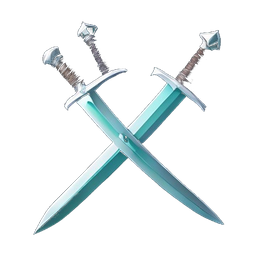
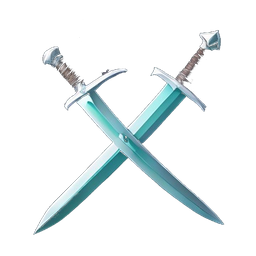
feat(profile): Vuma's full stage scene + name in the profile; compact daily reward
Profile modal top = hero-NN.jpg (Vuma full body in his stage scene) with
'Vuma Katongo'; daily reward shows only today's reward, smaller on mobile;
missions icon: removed the stray second sword handle.

Changed region(s): [[0.2812, 0.0625, 0.4375, 0.2812]]

diff --git a/components/redesign/DailyReward.jsx b/components/redesign/DailyReward.jsx
@@ -4,9 +4,8 @@ import React from 'react';
 import { C } from './tokens';
 import { DAILY_REWARDS } from '@/lib/data/platform';
 import { RewardIcon } from './RedesignShell';
-import { rewardParts, amountText } from '@/lib/rewardText.mjs';
+import { rewardParts } from '@/lib/rewardText.mjs';
 
-const GEM_TEXT = { emeralds: '#2fbf83', rubies: '#ff6b81', diamonds: '#7db8ff' };
 const IC = '/ui/reward'; // generated 3D reward icons
 
 const rewardText = (r) => rewardParts(r).join(' + ');
@@ -28,6 +27,8 @@ export default function DailyReward({ dailyDay = 1, dailyClaimed = false, onClai
   const total = list.length; // 7
   const curDay = Math.min(dailyDay, total);
   const today = list[dailyDay - 1] || list[0];
+  const isGrand = curDay === total;
+  const grandReward = list[total - 1];
   const cols = `repeat(${total - 1},1fr) 1.45fr`; // the grand day gets a wider column
 
   if (dailyClaimed) {
@@ -60,18 +61,20 @@ export default function DailyReward({ dailyDay = 1, dailyClaimed = false, onClai
   return (
     <div className="rs-daily" style={{ position: 'relative', paddingBottom: 22 }}>
       <style>{`
-        @media (max-width: 560px) {
-          .rs-daily .rs-dr-title { font-size: 19px !important; }
-          .rs-daily .rs-dr-count { font-size: 16px !important; }
-          .rs-daily .rs-dr-tile { min-height: 82px !important; padding: 8px 2px !important; }
-          .rs-daily .rs-dr-amt { font-size: 13px !important; }
-          .rs-daily .rs-dr-grand .rs-dr-amt { font-size: 16px !important; }
-          .rs-daily .rs-dr-daylabel { font-size: 8px !important; }
-          .rs-daily .rs-dr-panel { padding: 14px 12px 30px !important; }
-          .rs-daily .rs-dr-tiles { gap: 5px !important; }
-          .rs-daily .rs-dr-unit { font-size: 8.5px !important; }
-          .rs-daily .rs-dr-extra { font-size: 7.5px !important; letter-spacing: -.01em; }
-          .rs-daily .rs-dr-claim { font-size: 13px !important; padding: 10px 18px !important; }
+        @media (max-width: 480px) {
+          .rs-daily { padding-bottom: 16px !important; }
+          .rs-daily .rs-dr-title { font-size: 16px !important; gap: 6px !important; }
+          .rs-daily .rs-dr-title img { width: 20px !important; height: 20px !important; }
+          .rs-daily .rs-dr-count { font-size: 14px !important; }
+          .rs-daily .rs-dr-panel { padding: 10px 12px 24px !important; border-radius: 16px !important; }
+          .rs-daily .rs-dr-head { margin-bottom: 4px !important; }
+          .rs-daily .rs-dr-rail { margin-bottom: 8px !important; }
+          .rs-daily .rs-dr-todaytile { padding: 6px 10px !important; gap: 8px !important; }
+          .rs-daily .rs-dr-coin { width: 26px !important; height: 26px !important; }
+          .rs-daily .rs-dr-amt { font-size: 15px !important; }
+          .rs-daily .rs-dr-daylabel { font-size: 8.5px !important; }
+          .rs-daily .rs-dr-hint { font-size: 9.5px !important; }
+          .rs-daily .rs-dr-claim { font-size: 13px !important; padding: 8px 16px !important; }
         }
       `}</style>
 
@@ -83,7 +86,7 @@ export default function DailyReward({ dailyDay = 1, dailyClaimed = false, onClai
         padding: '18px 20px 30px',
       }}>
         {/* header */}
-        <div style={{ display: 'flex', justifyContent: 'space-between', alignItems: 'flex-start', marginBottom: 8 }}>
+        <div className="rs-dr-head" style={{ display: 'flex', justifyContent: 'space-between', alignItems: 'flex-start', marginBottom: 8 }}>
           <div className="rs-dr-title" style={{ fontSize: 25, fontWeight: 800, color: C.text, fontFamily: "var(--font-display, 'Bricolage Grotesque', sans-serif)", display: 'inline-flex', alignItems: 'center', gap: 10, lineHeight: 1 }}>
             Daily Reward <img src={`${IC}/gift.png`} alt="" width={28} height={28} className="anim-wiggle" style={{ objectFit: 'contain' }} />
           </div>
@@ -91,15 +94,8 @@ export default function DailyReward({ dailyDay = 1, dailyClaimed = false, onClai
             Day {curDay} / {total}
           </div>
         </div>
-        <div className="rs-dr-today" style={{ display: 'flex', alignItems: 'center', flexWrap: 'wrap', gap: 6, fontSize: 13.5, fontWeight: 700, color: C.sub, marginBottom: 12 }}>
-          Today:
-          <span style={{ display: 'inline-flex', alignItems: 'center', gap: 5, color: C.gold, fontWeight: 800 }}>
-            <RewardIcon kind="coins" size={17} />{rewardText(today)}
-          </span>
-        </div>
-
         {/* progress rail */}
-        <div style={{ position: 'relative', height: 16, margin: '0 0 12px' }}>
+        <div className="rs-dr-rail" style={{ position: 'relative', height: 16, margin: '0 0 12px' }}>
           <div style={{ position: 'absolute', top: '50%', left: `${100 / ((total + 0.45) * 2)}%`, right: `${145 / ((total + 0.45) * 2)}%`, height: 2, background: 'rgba(255,255,255,.12)', transform: 'translateY(-50%)' }} />
           <div style={{ position: 'relative', display: 'grid', gridTemplateColumns: cols, height: '100%' }}>
             {list.map((r, i) => {
@@ -119,73 +115,18 @@ export default function DailyReward({ dailyDay = 1, dailyClaimed = false, onClai
           </div>
         </div>
 
-        {/* day tiles */}
-        <div className="rs-dr-tiles" style={{ display: 'grid', gridTemplateColumns: cols, gap: 8 }}>
-          {list.map((r, i) => {
-            const day = i + 1;
-            const past = day < dailyDay;
-            const isToday = day === dailyDay && !dailyClaimed;
-            const locked = !past && !isToday;
-            const grand = day === total;
-
-            let bg = C.track, textCol = C.text, border = '1px solid rgba(255,255,255,.05)', shadow = 'none';
-            if (isToday && grand) {
-              bg = 'linear-gradient(180deg,#f6d77c,#cf9a3b)';
-              textCol = '#3a2a08';
-              border = `2px solid ${C.green}`;
-              shadow = '0 0 18px rgba(79,169,139,.55), 0 6px 18px rgba(207,154,59,.45)';
-            } else if (isToday) {
-              bg = 'linear-gradient(180deg,#fbfcf8,#e7ebe2)';
-              textCol = '#16241c';
-              border = `2px solid ${C.green}`;
-              shadow = '0 0 18px rgba(79,169,139,.55)';
-            } else if (grand) {
-              bg = 'linear-gradient(180deg,#ecc665,#cf9a3b)';
-              textCol = '#3a2a08';
-              border = '1px solid rgba(255,255,255,.25)';
-              shadow = '0 6px 16px rgba(207,154,59,.3)';
-            }
-
-            return (
-              <div key={day} className={grand ? 'rs-dr-tile rs-dr-grand' : 'rs-dr-tile'} style={{
-                position: 'relative', borderRadius: 13, padding: grand ? '13px 3px 10px' : '10px 3px', minHeight: 96,
-                display: 'flex', flexDirection: 'column', alignItems: 'center', justifyContent: 'space-between', gap: 4,
-                background: bg, border, boxShadow: shadow, opacity: locked && !grand ? 0.72 : 1,
-              }}>
-                {grand && (
-                  <div className="rs-dr-bonus" style={{
-                    position: 'absolute', top: -8, left: '50%', transform: 'translateX(-50%)', whiteSpace: 'nowrap',
-                    padding: '2px 7px', borderRadius: 999, fontSize: 8.5, fontWeight: 900, letterSpacing: '.08em',
-                    color: '#fff', background: 'linear-gradient(180deg,#ff6a4d,#d8342a)', boxShadow: '0 2px 6px rgba(0,0,0,.35)',
-                  }}>BONUS</div>
-                )}
-                <div className="rs-dr-daylabel" style={{ fontSize: 9.5, fontWeight: 800, letterSpacing: '.04em', color: isToday ? '#3a6a55' : grand ? '#5c4410' : C.muted }}>DAY {day}</div>
-
-                <div style={{ position: 'relative', display: 'grid', placeItems: 'center', height: 36 }}>
-                  {past ? (
-                    <img src={`${IC}/check.png`} alt="" width={32} height={32} style={{ objectFit: 'contain' }} />
-                  ) : grand ? (
-                    <span className="anim-breathe" style={{ position: 'relative', display: 'block', width: 48, height: 36, filter: 'drop-shadow(0 2px 5px rgba(0,0,0,.35))' }}>
-                      <img src={`${IC}/coins.png`} alt="" width={28} height={28} style={{ position: 'absolute', left: 0, bottom: 0, objectFit: 'contain' }} />
-                      <img src={`${IC}/coins.png`} alt="" width={28} height={28} style={{ position: 'absolute', right: 0, bottom: 0, objectFit: 'contain' }} />
-                      <img src={`${IC}/coins.png`} alt="" width={32} height={32} style={{ position: 'absolute', left: 8, top: -2, objectFit: 'contain' }} />
-                    </span>
-                  ) : (
-                    <>
-                      <img src={`${IC}/coins.png`} alt="" width={34} height={34} className={isToday ? 'anim-bob' : undefined} style={{ objectFit: 'contain', opacity: locked ? 0.92 : 1, filter: locked ? 'saturate(.8) brightness(.9)' : 'none' }} />
-                      {locked && <img src={`${IC}/lock.png`} alt="" width={16} height={16} style={{ position: 'absolute', right: -2, bottom: -3, objectFit: 'contain', filter: 'drop-shadow(0 1px 2px rgba(0,0,0,.55))' }} />}
-                    </>
-                  )}
-                </div>
-
-                <div aria-label={`Day ${day}: ${rewardText(r)}`} style={{ textAlign: 'center', lineHeight: 1.05 }}>
-                  <div className="rs-dr-amt" style={{ fontSize: grand ? 19 : 15, fontWeight: 900, color: textCol }}>{r.kwacha}</div>
-                  <div className="rs-dr-unit" style={{ fontSize: 9.5, fontWeight: 700, color: textCol, opacity: 0.8 }}>{r.kwacha === 1 ? 'coin' : 'coins'}</div>
-                  {['emeralds', 'rubies', 'diamonds'].map((g, gi) => r[g] ? <div key={g} className="rs-dr-extra" style={{ fontSize: 9, fontWeight: 800, marginTop: gi ? 1 : 3, color: grand ? '#3a2a08' : GEM_TEXT[g], whiteSpace: 'nowrap' }}>+{amountText(r[g], g)}</div> : null)}
-                </div>
-              </div>
-            );
-          })}
+        {/* today's reward only */}
+        <div className="rs-dr-todaytile" style={{
+          display: 'flex', alignItems: 'center', gap: 12, borderRadius: 13, padding: '10px 14px',
+          background: isGrand ? 'linear-gradient(180deg,#f6d77c,#cf9a3b)' : 'linear-gradient(180deg,#fbfcf8,#e7ebe2)',
+          color: isGrand ? '#3a2a08' : '#16241c', border: `2px solid ${C.green}`, boxShadow: '0 0 18px rgba(79,169,139,.45)',
+        }}>
+          <img src={`${IC}/coins.png`} alt="" width={38} height={38} className="anim-bob rs-dr-coin" style={{ objectFit: 'contain', flex: 'none' }} />
+          <div aria-label={`Day ${curDay}: ${rewardText(today)}`} style={{ flex: 1, minWidth: 0, lineHeight: 1.1 }}>
+            <div className="rs-dr-daylabel" style={{ fontSize: 10, fontWeight: 800, letterSpacing: '.05em', opacity: .75 }}>DAY {curDay}{isGrand ? ' · BONUS' : ''}</div>
+            <div className="rs-dr-amt" style={{ fontSize: 20, fontWeight: 900 }}>{rewardText(today)}</div>
+          </div>
+          {!isGrand && grandReward && <div className="rs-dr-hint" style={{ fontSize: 11, fontWeight: 700, opacity: .65, textAlign: 'right', lineHeight: 1.2 }}>Day {total}:<br />{rewardText(grandReward)}</div>}
         </div>
       </div>
 

diff --git a/components/redesign/ProfileModal.jsx b/components/redesign/ProfileModal.jsx
@@ -12,7 +12,7 @@ import { XP_LEVELS } from '@/lib/data/platform';
  * shared gameOverlays), opened from the top-bar profile button. Replaces the
  * old `me.profile` tab navigation.
  */
-export default function ProfileModal({ open, onClose, name = 'Player', level, nextLevel, xpPct = 0, vip, user }) {
+export default function ProfileModal({ open, onClose, level, nextLevel, xpPct = 0, vip, user }) {
   if (!open) return null;
   const u = user || {};
   const money = [
@@ -39,15 +39,17 @@ export default function ProfileModal({ open, onClose, name = 'Player', level, ne
       <div onClick={(e) => e.stopPropagation()} style={{ width: '100%', maxWidth: 460, maxHeight: '92vh', overflowY: 'auto', borderRadius: 20, background: `linear-gradient(180deg, ${C.bgTop}, ${C.bg})`, border: '1px solid rgba(255,255,255,.09)', boxShadow: '0 24px 60px rgba(0,0,0,.55)', position: 'relative', animation: 'rs-pm-pop .2s cubic-bezier(.2,.8,.3,1)' }}>
         <button onClick={onClose} aria-label="Close" style={{ all: 'unset', position: 'absolute', top: 12, right: 12, zIndex: 2, cursor: 'pointer', width: 32, height: 32, borderRadius: 9, display: 'grid', placeItems: 'center', background: 'rgba(0,0,0,.4)', color: '#fff' }}><X size={18} /></button>
 
-        {/* Top: the current Vuma stage's scene as a cover banner, fading into the modal background. */}
-        <div style={{ position: 'relative', padding: '26px 22px 18px', textAlign: 'center', borderBottom: `1px solid ${C.line}`, overflow: 'hidden', borderRadius: '20px 20px 0 0', backgroundColor: C.bgTop, backgroundImage: level?.banner ? `linear-gradient(180deg, rgba(0,0,0,.08) 0%, rgba(0,0,0,.18) 40%, ${C.bgTop} 100%), url(${level.banner})` : 'radial-gradient(120% 100% at 50% 0%, rgba(79,169,139,.16), transparent 70%)', backgroundSize: 'cover', backgroundPosition: 'center' }}>
-          <div style={{ width: 84, height: 84, margin: '0 auto 12px', borderRadius: '50%', overflow: 'hidden', background: 'linear-gradient(135deg,#7fd7e8,#3a7d8c)', border: `3px solid ${C.teal}`, boxShadow: '0 8px 24px rgba(0,0,0,.45)', boxSizing: 'border-box' }}>
-            {level?.avatar && <img src={level.avatar} alt={`Vuma at stage ${level.level}: ${level.name}`} width={84} height={84} style={{ width: '100%', height: '100%', objectFit: 'cover', display: 'block' }} />}
-          </div>
-          <div style={{ fontSize: 21, fontWeight: 800, color: C.text, marginBottom: 8, fontFamily: "var(--font-display, 'Bricolage Grotesque', sans-serif)", textShadow: '0 2px 8px rgba(0,0,0,.7)' }}>{name}</div>
-          <div style={{ display: 'flex', justifyContent: 'center', gap: 8, flexWrap: 'wrap' }}>
-            <span style={{ display: 'inline-flex', alignItems: 'center', gap: 5, fontSize: 12, fontWeight: 800, color: C.text, background: C.panel2, padding: '4px 11px', borderRadius: 999, boxShadow: '0 2px 8px rgba(0,0,0,.35)' }}>{level?.name}</span>
-            {vip?.name && <span style={{ fontSize: 12, fontWeight: 800, color: '#08210f', background: C.gold, padding: '4px 11px', borderRadius: 999 }}>{vip.name} VIP</span>}
+        {/* Top: the current Vuma stage's full scene (Vuma in it), name + chips overlaid on a bottom fade. */}
+        <div style={{ position: 'relative', borderRadius: '20px 20px 0 0', overflow: 'hidden', background: C.bgTop, borderBottom: `1px solid ${C.line}` }}>
+          {level?.hero
+            ? <img src={level.hero} alt={`Vuma at stage ${level.level}: ${level.name}`} width={600} height={540} style={{ width: '100%', aspectRatio: '10 / 9', height: 'auto', objectFit: 'cover', display: 'block' }} />
+            : <div style={{ width: '100%', aspectRatio: '10 / 9', background: 'radial-gradient(120% 100% at 50% 0%, rgba(79,169,139,.16), transparent 70%)' }} />}
+          <div style={{ position: 'absolute', left: 0, right: 0, bottom: 0, padding: '56px 22px 14px', textAlign: 'center', background: `linear-gradient(180deg, rgba(0,0,0,0) 0%, rgba(8,10,16,.72) 55%, ${C.bgTop} 100%)` }}>
+            <div style={{ fontSize: 24, fontWeight: 800, color: C.text, marginBottom: 8, fontFamily: "var(--font-display, 'Bricolage Grotesque', sans-serif)", textShadow: '0 2px 8px rgba(0,0,0,.7)' }}>Vuma Katongo</div>
+            <div style={{ display: 'flex', justifyContent: 'center', gap: 8, flexWrap: 'wrap' }}>
+              <span style={{ display: 'inline-flex', alignItems: 'center', gap: 5, fontSize: 12, fontWeight: 800, color: C.text, background: C.panel2, padding: '4px 11px', borderRadius: 999, boxShadow: '0 2px 8px rgba(0,0,0,.35)' }}>{level?.name}</span>
+              {vip?.name && <span style={{ fontSize: 12, fontWeight: 800, color: '#08210f', background: C.gold, padding: '4px 11px', borderRadius: 999 }}>{vip.name} VIP</span>}
+            </div>
           </div>
         </div>
 

diff --git a/lib/data/platform.js b/lib/data/platform.js
@@ -51,7 +51,7 @@ export const WHEEL_SEGMENTS = [
 // `icon` is a fallback for emoji-only surfaces; UIs show stage.avatar instead.
 export const XP_LEVELS = VUMA_STAGES.map(s => ({
   level: s.stage, name: s.name, xp: s.xp, icon: '⚽',
-  place: s.place, club: s.club, chapter: s.chapter, banner: s.banner, avatar: s.avatar,
+  place: s.place, club: s.club, chapter: s.chapter, banner: s.banner, avatar: s.avatar, hero: s.hero,
 }));
 
 export const VIP_TIERS = [
